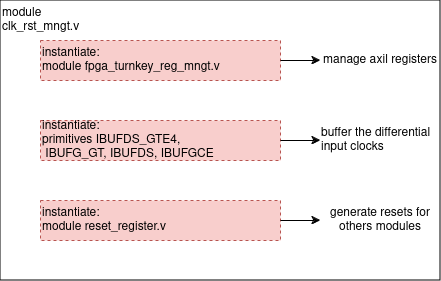
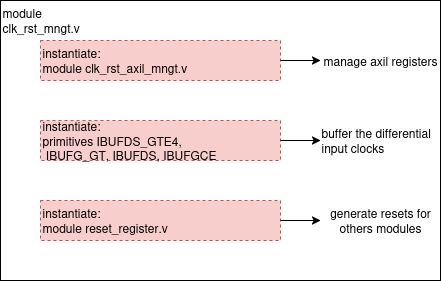
change file names rtl

diff --git a/general-doc/src/electronics/fpga/clock_rst.md b/general-doc/src/electronics/fpga/clock_rst.md
@@ -24,10 +24,10 @@ Purpose of this module:
 |Signals name         |Interface |Dir |Init status |Description
 |---------------------|----------|----|------------|-----------
 |fastdac_refclki_p/n  |cr_ext_cr |I   |200MHz      |input of jesd refclk from clockchip 
-|fastdac_sysref_p     |cr_ext_cr |I   |3.125MHz    |input of jesd sysref from clockchip
-|fastdac_syncout_p    |cr_ext_cr |I   |-           |input of jesd syncout from receiver 
-|ext_clk10_p          |cr_ext_cr |I   |10MHz       |input of 10MHz from WRS
-|ext_clk100_p         |cr_ext_cr |I   |100MHz      |input of 100MHz from clockchip 
+|fastdac_sysref_p/n   |cr_ext_cr |I   |3.125MHz    |input of jesd sysref from clockchip
+|fastdac_syncout_p/n  |cr_ext_cr |I   |-           |input of jesd syncout from receiver 
+|ext_clk10_p/n        |cr_ext_cr |I   |10MHz       |input of 10MHz from WRS
+|ext_clk100_p/n       |cr_ext_cr |I   |100MHz      |input of 100MHz from clockchip 
 |axil signals         |s_axil    |IO  |-           |standard axilite interface for r/w registers 
 |s_axil_aclk          |Clock     |I   |15MHz       |clock for axil interface 
 |sys_reset_n          |Reset     |I   |-           |system reset, active LOW
@@ -100,64 +100,18 @@ Purpose of this module:
 |31:1|-           |-             |-           |Reserved 0
 |0   |decoy_rst_o	|decoy_rst     |Pull HIGH to LOW|Reset decoy module, active HIGH
 
-<!-- |signal		      |register name                  			|axil register| offset address (dec) |
-|-------------------------|------------------------------|-------------|---------|
-|clockchip_sync 			  |clockchip_sync_o				   |slv_reg0[0]|0
-|fpga_turnkey_fastdac_rst |fpga_turnkey_fastdac_rst_o		|slv_reg0[1]|0
-|tdc_rst   					  |tdc_rst_o						   |slv_reg1[0]|4
-|gc_rst						  |gc_rst_o						      |slv_reg2[0]|8
-|ttl_rst					     |ttl_rst_o						   |slv_reg3[0]|12
-|lrst_i						  |lrst_o	 						   |slv_reg1[1]|4
-|ddr_data_rst             |ddr_data_rst_o					   |slv_reg4[0]|16
-|decoy_rst                |decoy_rst_o					      |slv_reg5[0]|20 -->
+#### slv_reg6 - R/W Access - Trigger Control
+|Bits|Signal name    |HW Wire          |Action/Value|Description
+|----|---------------|-----------------|------------|-----------
+|31:1|-              |-                |-           |Reserved 0
+|0   |ltc_sync_rst_o	|ltc_sync_rst     |Pull HIGH to LOW|Reset decoy module, active HIGH
 
 ### Generate SYNC signal for clockchip
-After receiving command from OS through clockchip_sync, detect rising edge of PPS and start counting to generate a 2ms pulse for clockchip (minimum is 1ms)
-```  
-reg sync_ltc_o;
-reg [2:0] clockchip_sync_r;
-reg [15:0] counter_clk;
+After receiving sync trigger command from OS, FPGA detects rising edge of PPS and start counting to generate a 2ms pulse for clockchip (minimum is 1ms). Order of commands:
+- Initialize clock chip : writing configuration registers
+- Reset the sync counter
+- Send the sync trigger
+- FGPA should return the SYNC pulse for clock chip, the outputs of clock chip should be aligned to reference clock
+- Each time there'a any change in configuration registers, new parameters is applied after SYNC
 
-reg pps_clk_r;
-reg pps_clk_trigger;
-initial begin
-    pps_clk_r <= 0;
-    clockchip_sync_r <= 3'b0;
-end
-
-
-always @(posedge clk10_o or negedge sys_reset_n) begin
-   if (!sys_reset_n) begin
-      clockchip_sync_r <= 0;
-      sync_ltc_o <= 0;
-
-      pps_clk_trigger <= 0;
-      pps_clk_r = 0;
-
-      counter_clk <= 0;
-   end else begin
-      clockchip_sync_r <= {clockchip_sync_r[1:0],clockchip_sync};
-      pps_clk_r <= pps_i;
-      //Detect rising edge of pps after receive the sync command from OS
-      if ((!pps_clk_r && pps_i) && clockchip_sync_r[2]) begin
-         pps_clk_trigger <= 1;
-      end
-      if (pps_clk_trigger) begin
-         counter_clk <= counter_clk + 1;
-         if ((counter_clk > 0) && (counter_clk <= 16'd20000)) begin //20000 = 2ms for sync pulse
-            sync_ltc_o <= 1'b1;
-         end else if (counter_clk > 16'd20000) begin
-            counter_clk <= counter_clk;
-            sync_ltc_o <= 1'b0;
-         end else begin
-            sync_ltc_o <= 1'b0;
-         end
-      end else begin
-         sync_ltc_o <= 1'b0;
-         counter_clk <= 0;
-      end
-
-   end
-end
-
-```
+Note: This SYNC is different with SYNC on DDR

diff --git a/general-doc/src/electronics/fpga/tdc.md b/general-doc/src/electronics/fpga/tdc.md
@@ -4,7 +4,7 @@ We use AS6501 TDC(Time to Digital Converter) chip to convert arriving time of q-
 
 ![overview](pics/tdc.png)	
 ## clk_rst_buffer
-### OLVDS_TDC.v: buffer for differential output signals, clocks
+### tdc_olvds.v: buffer for differential output signals, clocks
 
 |Signals name   |Interface      |Dir |Init status |Description
 |---------------|---------------|----|------------|-----------
@@ -15,7 +15,7 @@ We use AS6501 TDC(Time to Digital Converter) chip to convert arriving time of q-
 |tdc_refclk_n/p |tdc_ext_clkrst |O   |-           |refclk differential pair output  
 |tdc_rstidx_n/p |tdc_ext_clkrst |O   |-           |rsridx differential pair output  
 
-### ILVDS_TDC.v: buffer for differential input signals,clocks
+### tdc_ilvds.v: buffer for differential input signals,clocks
 
 |Signals name   |Interface      |Dir |Init status |Description
 |---------------|---------------|----|------------|-----------
@@ -78,7 +78,8 @@ We use AS6501 TDC(Time to Digital Converter) chip to convert arriving time of q-
 ## system_ila_tdc 
 ILA debug core, probes signals under tdc blocks
 ## tdc_mngt
-### AS6501_IF.v: manages digital data from TDC, output tdc time/global counter/click result depends on axil commands
+### tdc_core.v: 
+Manages digital data from TDC, output tdc time/global counter/click result depends on axil commands.
 
 |Signals name         |Interface |Dir |Init status |Description
 |---------------------|----------|----|------------|-----------
@@ -107,7 +108,8 @@ ILA debug core, probes signals under tdc blocks
 |others               |-         |O   |-           |other signals is for debug
 
 
-### TDC_REG_MNGT_v1_0.v: manages axilite registers
+### tdc_reg_mngt.v: 
+Manages axilite registers.
 
 User parameters:
 |Parameter           |Value |Description
@@ -127,7 +129,8 @@ Port descriptions
 |s_axil_aresetn       |Reset     |I   |Active LOW  |reset for axil interface 
 
 
-- fifo_gc_tdc_rtl.v: instantiates fifo_gc_tdc, this fifo is axistream fifo. Instantiate axistream fifo in an RTL module allows to modify FREQ_HZ parameter of axistream interface when rebuild the block design
+### fifo_gc_tdc_rtl.v: 
+Instantiates fifo_gc_tdc, this fifo is axistream fifo. Instantiate axistream fifo in an RTL module allows to modify FREQ_HZ parameter of axistream interface when rebuild the block design.
 
 |Signals name         |Interface |Dir |Init status |Description
 |---------------------|----------|----|------------|-----------
@@ -263,7 +266,7 @@ The limit value is in unit of clk200 period
 |mr_data_count_valid_o		    |data_count_valid_i			|I	|-              |signal to tell click count data is valid -->
 
 ### Data flow
-Picture below shows an overview how data flows through modules and xdma channels. Responses to commands are written in modules AS6501_IF.v
+Picture below shows an overview how data flows through modules and xdma channels. Responses to commands are written in modules tdc_core.v
 
 ![tdc data flow](pics/tdc_data_flow.png)
 ### Software control functions

diff --git a/general-doc/src/electronics.md b/general-doc/src/electronics.md
@@ -26,7 +26,7 @@ Some abbreviations: Pulse Generator (PG), Amplitude Modulator (AM), Single Photo
 
 ## Device driver and Control API
 To complete the PHY layer, it requires a software layer to control the physical hardware. It includes:
-- Device driver: this is the low-level software handles PCIe communication (using XDMA) between PC and FPGA. It operates at OS kernel level and is written by Arm (Xilinx)
+- Device driver: this is the low-level software handles PCIe communication (using XDMA) between PC and FPGA. It operates at OS kernel level and is written by AMD (Xilinx)
 - Control API: this is the high-level software that runs at user level to configure and control the FPGA via the device driver. The user sends commands and data to FPGA from this API
  
 Instructions to install the driver and source code of Control API is available in [kiwi_hw_control](https://github.com/Veriqloud/kiwi_hw_control/tree/master) github repos. Os level documentation is also provided in the User Guide section.

diff --git a/general-doc/src/electronics/fpga/ddr4.md b/general-doc/src/electronics/fpga/ddr4.md
@@ -368,6 +368,16 @@ List of commands
 
 In step 6, there are some parameters:
 - 1999: define speed of read gc_in fifo. This is for click rate more than 50k and less than 100k
-- the delay and pair parameters need to be verify
-- In server and client, already tried to transmit global counter and write click result to the proper format to fifo -> need to verify with angle format
+- the delay and pair parameters defined from value of returned fiber delay after calibration
+
+calib fiber delay  [q_bins] | pair_mode | fiber_delay 
+----------------------------|-----------|------------
+34| 1 | 17
+35| 0 | 18
+36| 1 | 18
+37| 0 | 19
+- In server and client mechanism, try to START sending gc 
+- Reading alpha from alpha fifo when status of alpha_out_fifo is not empty. Pay attention to alpha out rate to avoid timeout on xdma
+
+For testing single device, run ddr_loop_test.py. Detail is in Hardware Testing Chapter
 

diff --git a/general-doc/src/electronics/fpga/ttl.md b/general-doc/src/electronics/fpga/ttl.md
@@ -1,5 +1,5 @@
 # TTL gate
-Purpose of this module:
+Purpose of this module: 
 - Generate gate signal for SPD, level TTL 3.3V out of FPGA (level is converted on Bread70 for SPD)
 - Duty cycle > 5ns
 - Delay full range 12.5ns, fine delay in 100ps step
